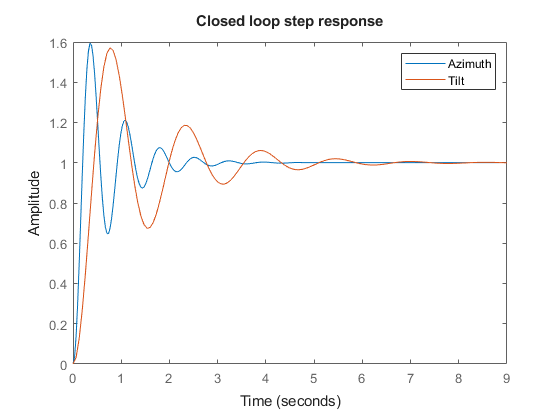
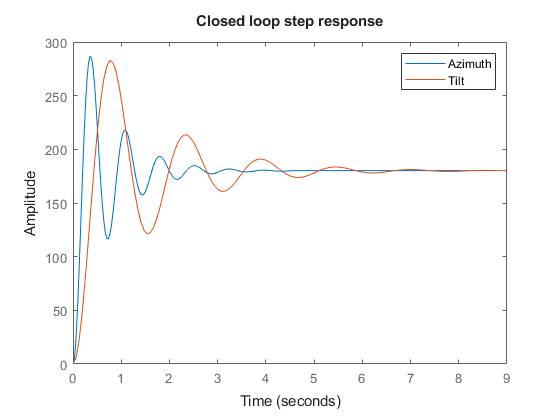
Opdatering så step respons er for 180 grader og ikke 1

Changed region(s): [[0.0304, 0.0929, 0.9107, 0.8357], [0.0607, 0.1857, 0.1214, 0.2476], [0.0607, 0.0929, 0.1214, 0.1238]]

diff --git a/04 Prototype udvikling/2 akset rotation/08 Control/matlab.m b/04 Prototype udvikling/2 akset rotation/08 Control/matlab.m
@@ -21,7 +21,7 @@ CL_azi=(d_azi*sys_azi)/(1+d_azi*sys_azi);
 CL_tilt=(d_tilt*sys_tilt)/(1+d_tilt*sys_tilt);
 
 figure;
-step(CL_azi, CL_tilt);
+step(CL_azi, CL_tilt, RespConfig('StepAmplitude', 180));
 title('Closed loop step response');
 legend('Azimuth', 'Tilt');
 
